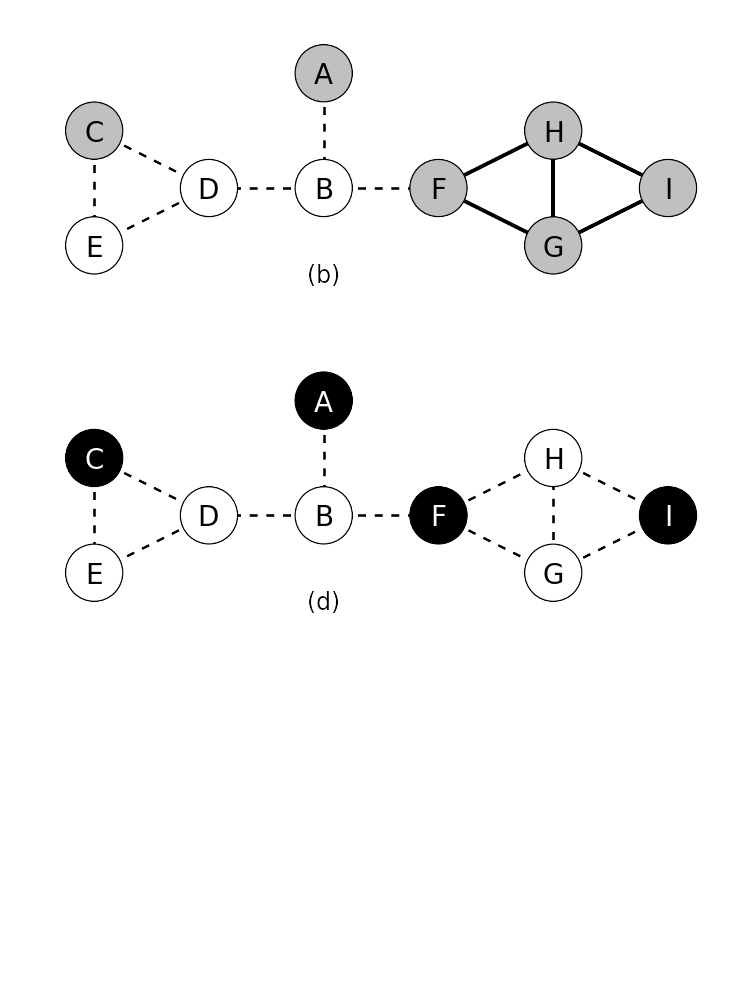
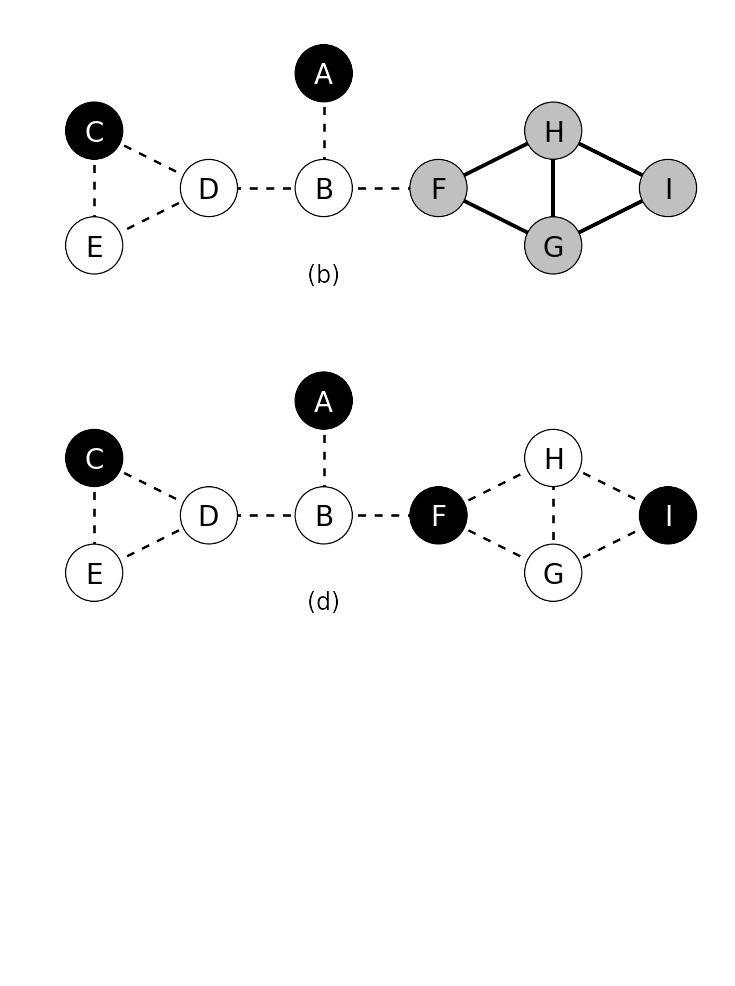
Update to return to original graph markup

Changed region(s): [[0.0898, 0.0913, 0.1796, 0.1826], [0.3891, 0.0304, 0.4789, 0.1217]]

diff --git a/src/examples/RedundancyRemoval_MIS.py b/src/examples/RedundancyRemoval_MIS.py
@@ -50,9 +50,9 @@ def main(figureSaveLocation):
     leafGridOne = gridspec.GridSpec(3, 2)
     leafGridOne.update(left=0.005, right=0.995, bottom=0.05, top=1, wspace=0.05)
     leafStep1Plot = plt.subplot(leafGridOne[0, 0:2])  # Graph for the first step of the Leaf redundancy removal.
-    draw_graph(leafFigureOne, removed=['B'], kept=[], label='(a)')
+    draw_graph(leafFigureOne, removed=['B'], kept=['A'], label='(a)')
     leafStep3Plot = plt.subplot(leafGridOne[1, 0:2])  # Graph for the third step of the Leaf redundancy removal.
-    draw_graph(leafFigureOne, removed=['B', 'D', 'E', 'G', 'H'], kept=[], label='(c)')
+    draw_graph(leafFigureOne, removed=['B', 'D', 'E', 'G', 'H'], kept=['A', 'C', 'F'], label='(c)')
     leafBlankPlot = plt.subplot(leafGridOne[2, 0:2])  # Stick a blank placeholder in to synchronise the spacing for the Leaf, NC and FIS graphs.
     draw_graph(leafFigureOne, blank=True)
     leafGridOne.tight_layout(leafFigureOne)
@@ -61,7 +61,7 @@ def main(figureSaveLocation):
     leafGridTwo = gridspec.GridSpec(3, 2)
     leafGridTwo.update(left=0.005, right=0.995, bottom=0.05, top=1, wspace=0.05)
     leafStep2Plot = plt.subplot(leafGridTwo[0, 0:2])  # Graph for the second step of the Leaf redundancy removal.
-    draw_graph(leafFigureTwo, removed=['B', 'D', 'E'], kept=[], label='(b)')
+    draw_graph(leafFigureTwo, removed=['B', 'D', 'E'], kept=['A', 'C'], label='(b)')
     leafStep4Plot = plt.subplot(leafGridTwo[1, 0:2])  # Graph for the fourth step of the Leaf redundancy removal.
     draw_graph(leafFigureTwo, removed=['B', 'D', 'E', 'G', 'H'], kept=['A', 'C', 'F', 'I'], label='(d)')
     leafBlankPlot = plt.subplot(leafGridTwo[2, 0:2])  # Stick a blank placeholder in to synchronise the spacing for the Leaf, NC and FIS graphs.
